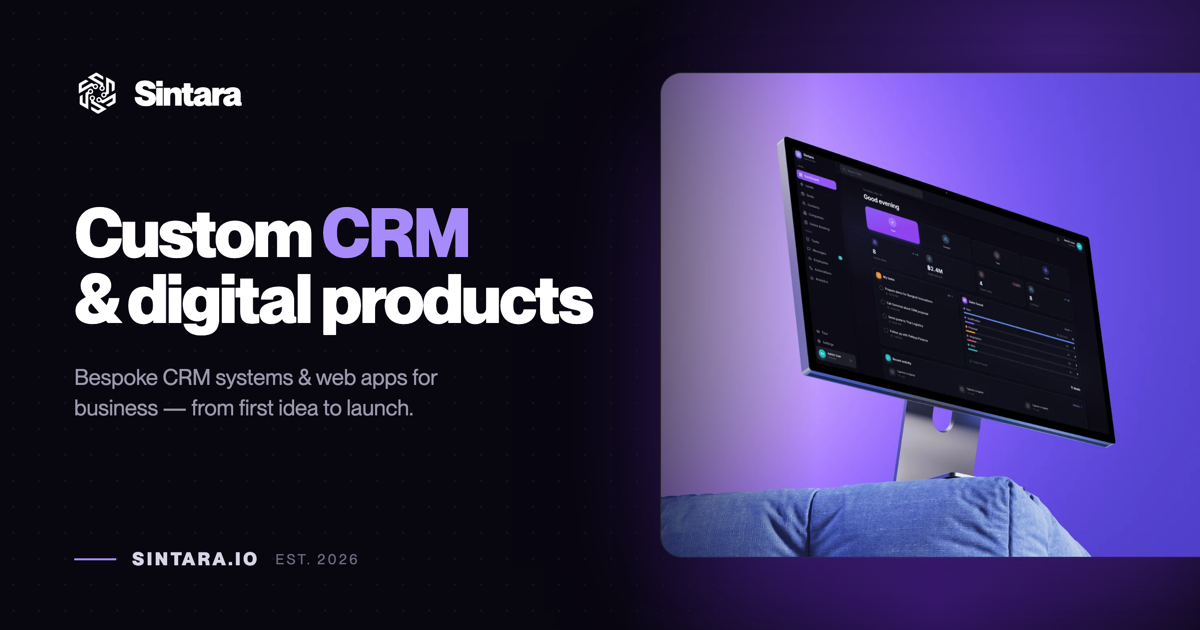
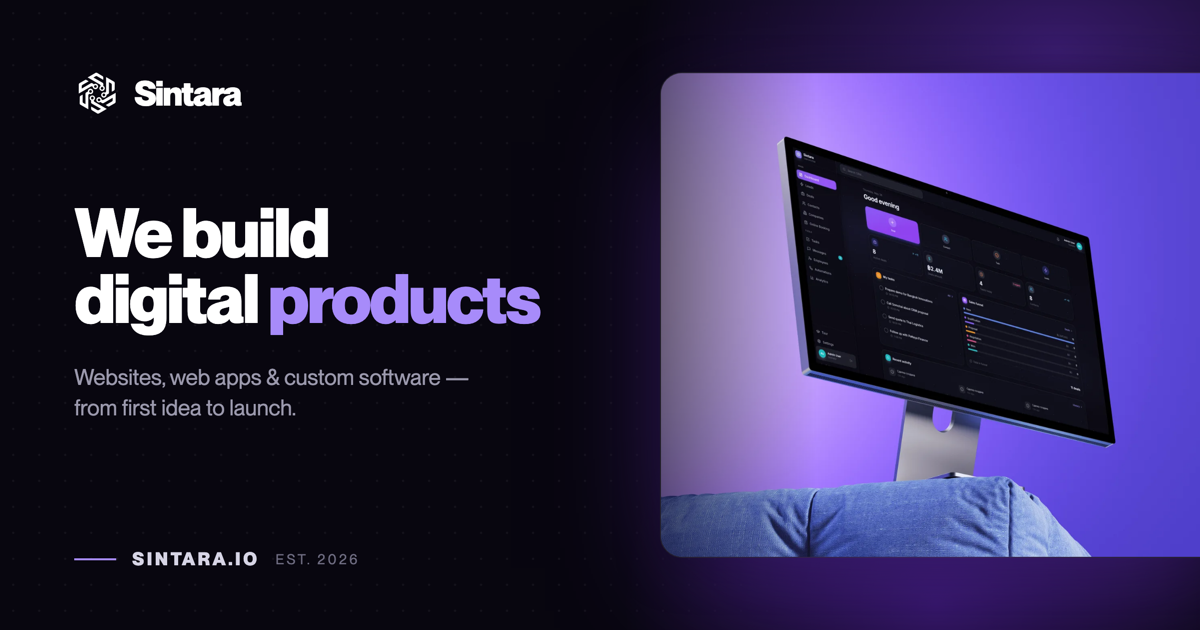
content: broaden positioning to "Digital Product Studio" (soften CRM accent)
CRM gets its own site, and the studio does websites + more — so de-emphasize
the CRM-led copy. New OG image headline "We build digital products" with a
websites/web-apps/custom-software subline (same mockup). Meta title, description,
keywords, OG/Twitter and JSON-LD (slogan, descriptions, serviceType, offer
catalog, knowsAbout) all rebalanced to the broad studio positioning; CRM kept as
one capability, not the lead. og:image -> ?v=4 to force re-scrape.

Changed region(s): [[0.0617, 0.3317, 0.4933, 0.5429], [0.0617, 0.573, 0.37, 0.6635]]

diff --git a/index.html b/index.html
@@ -5,10 +5,10 @@
     <meta name="viewport" content="width=device-width, initial-scale=1.0" />
 
     <!-- Primary Meta Tags -->
-    <title>Sintara — Custom CRM &amp; Digital Product Studio</title>
-    <meta name="title" content="Sintara — Custom CRM & Digital Product Studio" />
-    <meta name="description" content="Sintara is a product studio. We design and build custom CRM systems and web applications for real business needs — from design to end-to-end launch. Our flagship is Sintara CRM." />
-    <meta name="keywords" content="custom CRM, CRM development, CRM software, bespoke CRM, CRM system, web application development, web development, SaaS development, product studio, digital products, custom software development, React, TypeScript, Node.js, Sintara, business automation, UI/UX design, telegram bots" />
+    <title>Sintara — Digital Product Studio</title>
+    <meta name="title" content="Sintara — Digital Product Studio" />
+    <meta name="description" content="Sintara is an independent digital product studio. We design and build websites, web apps and custom software — from first idea to launch." />
+    <meta name="keywords" content="digital product studio, web development, web application development, custom software development, website development, web apps, product design, UI/UX design, SaaS development, CRM development, React, TypeScript, Node.js, Sintara, business automation" />
     <meta name="author" content="Sintara" />
     <meta name="robots" content="index, follow, max-image-preview:large, max-snippet:-1, max-video-preview:-1" />
     <meta name="googlebot" content="index, follow" />
@@ -26,12 +26,12 @@
     <!-- Open Graph / Facebook -->
     <meta property="og:type" content="website" />
     <meta property="og:url" content="https://sintara.io/" />
-    <meta property="og:title" content="Sintara — Custom CRM & Digital Product Studio" />
-    <meta property="og:description" content="Sintara product studio. Custom CRM systems and web applications built for your business — design, development, end-to-end launch. Our flagship is Sintara CRM." />
-    <meta property="og:image" content="https://sintara.io/og-image.png?v=3" />
+    <meta property="og:title" content="Sintara — Digital Product Studio" />
+    <meta property="og:description" content="Independent digital product studio. We design and build websites, web apps and custom software — from first idea to launch." />
+    <meta property="og:image" content="https://sintara.io/og-image.png?v=4" />
     <meta property="og:image:width" content="1200" />
     <meta property="og:image:height" content="630" />
-    <meta property="og:image:alt" content="Sintara — custom CRM & digital product studio" />
+    <meta property="og:image:alt" content="Sintara — digital product studio" />
     <meta property="og:site_name" content="Sintara" />
     <meta property="og:locale" content="en_US" />
     <meta property="og:locale:alternate" content="ru_RU" />
@@ -39,10 +39,10 @@
     <!-- Twitter -->
     <meta name="twitter:card" content="summary_large_image" />
     <meta name="twitter:url" content="https://sintara.io/" />
-    <meta name="twitter:title" content="Sintara — Custom CRM & Digital Products" />
-    <meta name="twitter:description" content="A product studio building custom CRM systems and web applications for business — design, development, end-to-end launch." />
-    <meta name="twitter:image" content="https://sintara.io/og-image.png?v=3" />
-    <meta name="twitter:image:alt" content="Sintara — custom CRM & digital product studio" />
+    <meta name="twitter:title" content="Sintara — Digital Product Studio" />
+    <meta name="twitter:description" content="Independent digital product studio — websites, web apps and custom software, from idea to launch." />
+    <meta name="twitter:image" content="https://sintara.io/og-image.png?v=4" />
+    <meta name="twitter:image:alt" content="Sintara — digital product studio" />
 
     <!-- Favicon & Icons (dark mark; ?v=2 busts the old cached favicons) -->
     <link rel="icon" type="image/svg+xml" href="/favicon.svg?v=2" />
@@ -104,8 +104,8 @@
         "width": 1200,
         "height": 630
       },
-      "description": "Sintara is a product studio building custom CRM systems, web applications and digital products for business.",
-      "slogan": "Custom CRM and digital products for real business needs",
+      "description": "Sintara is an independent digital product studio building websites, web applications and custom software.",
+      "slogan": "We build digital products — websites, web apps and custom software",
       "foundingDate": "2026-04-23",
       "address": {
         "@type": "PostalAddress",
@@ -131,16 +131,16 @@
       },
       "areaServed": "Worldwide",
       "knowsAbout": [
-        "Custom CRM Development",
-        "CRM Software",
-        "Web Application Development",
-        "SaaS Development",
         "Web Development",
+        "Web Application Development",
         "Custom Software Development",
+        "Digital Product Design",
+        "UI/UX Design",
+        "SaaS Development",
+        "CRM Development",
         "React",
         "TypeScript",
-        "Node.js",
-        "UI/UX Design"
+        "Node.js"
       ]
     }
     </script>
@@ -153,7 +153,7 @@
       "name": "Sintara",
       "alternateName": ["Синтара", "sintara", "Sintara IT"],
       "url": "https://sintara.io",
-      "description": "Product studio — custom CRM systems, web applications and digital products.",
+      "description": "Independent digital product studio — websites, web applications and custom software.",
       "inLanguage": ["ru", "en"],
       "publisher": {
         "@id": "https://sintara.io/#organization"
@@ -173,9 +173,9 @@
       "name": "Sintara",
       "image": "https://sintara.io/og-image.png",
       "url": "https://sintara.io",
-      "description": "Custom CRM and web application development — product design and engineering for business.",
+      "description": "Independent digital product studio — websites, web applications and custom software, design and engineering.",
       "priceRange": "$$",
-      "serviceType": ["CRM Development", "Web Application Development", "Custom Software Development", "UI/UX Design"],
+      "serviceType": ["Web Development", "Web Application Development", "Custom Software Development", "UI/UX Design", "CRM Development"],
       "areaServed": "Worldwide",
       "hasOfferCatalog": {
         "@type": "OfferCatalog",
@@ -185,8 +185,8 @@
             "@type": "Offer",
             "itemOffered": {
               "@type": "Service",
-              "name": "Custom CRM Development",
-              "description": "Bespoke CRM systems built around your business processes"
+              "name": "Website Development",
+              "description": "Custom websites and landing pages, from design to launch"
             }
           },
           {
@@ -194,7 +194,7 @@
             "itemOffered": {
               "@type": "Service",
               "name": "Web Application Development",
-              "description": "Web apps and SaaS products, from design to launch"
+              "description": "Web apps, SaaS products and custom software"
             }
           },
           {
